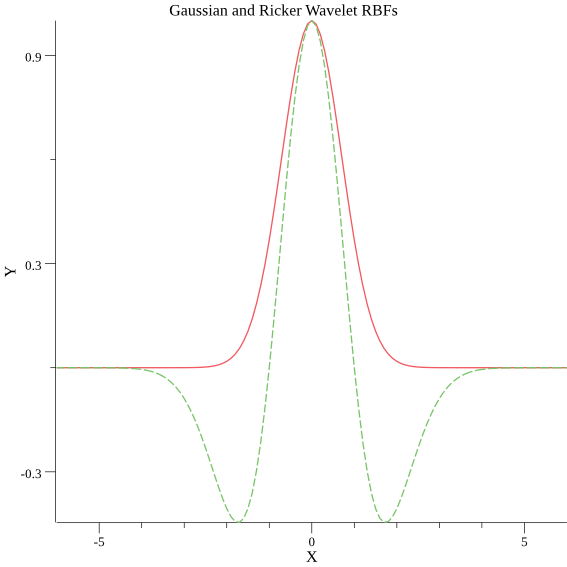
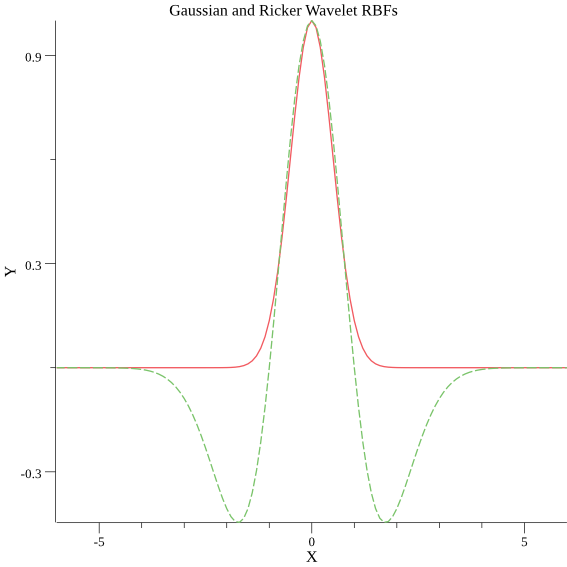
First commit of RBF network.

diff --git a/rbf/network.go b/rbf/network.go
@@ -1,23 +1,44 @@
 package rbf
 
 import (
+	"encoding/json"
 	"errors"
 	"fmt"
 
 	"github.com/a-h/ml/distance"
+	"github.com/a-h/ml/random"
 )
+
+// NewNeuron returns a new neuron.
+func NewNeuron(inputCount int, outputCount int) *Neuron {
+	return &Neuron{
+		InputWeights:  random.Float64Vector(-100, 100, inputCount),
+		Centroid:      random.Float64Vector(-100, 100, inputCount),
+		Distance:      distance.Euclidean,
+		Center:        random.Float64(-100, 100),
+		Width:         random.Float64(-100, 100),
+		OutputWeights: random.Float64Vector(-100, 100, outputCount),
+	}
+}
 
 // Neuron defines an RBF neuron in an RBF network.
 type Neuron struct {
-	InputWeights  []float64
-	Centroid      []float64
-	Distance      distance.Function
-	RBF           Function
+	InputWeights []float64
+	Centroid     []float64
+	Distance     distance.Function `json:"-"`
+	// RBF function parameters.
+	Center        float64
+	Width         float64
 	OutputWeights []float64
 }
 
+func (n Neuron) String() string {
+	b, _ := json.Marshal(n)
+	return string(b)
+}
+
 // Calculate the output of the neuron.
-func (n Neuron) Calculate(input []float64) (op []float64, err error) {
+func (n *Neuron) Calculate(input []float64) (op []float64, err error) {
 	if len(n.InputWeights) != len(input) {
 		err = fmt.Errorf("rbf: the input vector has a length of %d values and should have the same number of input weights, but we have %d neuron input weights",
 			len(input), len(n.InputWeights))
@@ -38,7 +59,7 @@ func (n Neuron) Calculate(input []float64) (op []float64, err error) {
 	}
 
 	// Scale the distance using the RBF function then multiply by the scalar output weights.
-	output := n.RBF(d)
+	output := NewGaussian(1.0, n.Width, n.Center)(d)
 	op = make([]float64, len(n.OutputWeights))
 	for i, outputWeight := range n.OutputWeights {
 		op[i] = output * outputWeight
@@ -47,8 +68,29 @@ func (n Neuron) Calculate(input []float64) (op []float64, err error) {
 }
 
 // OutputCount returns the number of output nodes.
-func (n Neuron) OutputCount() int {
+func (n *Neuron) OutputCount() int {
 	return len(n.OutputWeights)
+}
+
+func (n *Neuron) GetMemory() (op []float64) {
+	//TODO: Benchmark this approach and check that it's OK. I think it is given Go's slice internals.
+	op = append(op, n.InputWeights...)
+	op = append(op, n.Center)
+	op = append(op, n.Width)
+	op = append(op, n.OutputWeights...)
+	return
+}
+
+func (n *Neuron) SetMemory(m []float64) {
+	//TODO: Add error handling here, check the lengths etc. Lots of opportunities to panic here.
+	var index int
+	n.InputWeights = m[index:len(n.InputWeights)]
+	index = len(n.InputWeights)
+	n.Center = m[index]
+	index++
+	n.Width = m[index]
+	index++
+	n.OutputWeights = m[index:]
 }
 
 // NewBias creates a bias node with the specified number of outputs.
@@ -81,6 +123,12 @@ type Node interface {
 	OutputCount() int
 }
 
+// TrainableNode defines the behaviour of a node which can be trained.
+type TrainableNode interface {
+	GetMemory() []float64
+	SetMemory(m []float64)
+}
+
 // NewNetwork creates a new network from the input nodes, checking that the configuration
 // matches.
 func NewNetwork(neurons ...Node) (n Network, err error) {
@@ -101,6 +149,14 @@ func NewNetwork(neurons ...Node) (n Network, err error) {
 
 // Network defines the nodes in an RBF network.
 type Network []Node
+
+func (neurons Network) String() string {
+	b, err := json.Marshal(neurons)
+	if err != nil {
+		panic(err)
+	}
+	return string(b)
+}
 
 // Calculate the output of the network.
 func (neurons Network) Calculate(input []float64) (op []float64, err error) {

diff --git a/rbf/network_test.go b/rbf/network_test.go
@@ -1,0 +1,89 @@
+package rbf
+
+import (
+	"fmt"
+	"math"
+	"testing"
+
+	"github.com/a-h/ml/random"
+
+	"github.com/a-h/ml/distance"
+)
+
+func TestGaussian(t *testing.T) {
+	actual := NewGaussian(3.0, 2.0, 6.0)(2.0)
+	if actual != 3.0 {
+		t.Errorf("expected the peak of the curve to be at 2.0 and the value to be 3.0, but got %v", actual)
+	}
+}
+
+func TestNetwork(t *testing.T) {
+	ideal := []TrainingData{
+		{
+			Input:    []float64{0, 0},
+			Expected: []float64{0},
+		},
+		{
+			Input:    []float64{0, 1},
+			Expected: []float64{1},
+		},
+		{
+			Input:    []float64{1, 0},
+			Expected: []float64{1},
+		},
+		{
+			Input:    []float64{1, 1},
+			Expected: []float64{0},
+		},
+	}
+
+	network, err := NewNetwork(
+		NewNeuron(2, 1),
+		NewNeuron(2, 1),
+		NewNeuron(2, 1),
+		NewBias(1),
+	)
+	if err != nil {
+		t.Fatal("Error creating network:", err)
+	}
+
+	finalError := math.MaxFloat64
+	for i := 0; i < 1000000; i++ {
+		// Run all of the training data through the network and calculate how good it is.
+		var e float64
+		for _, td := range ideal {
+			// Execute the network against the training data.
+			actual, err := network.Calculate(td.Input)
+			if err != nil {
+				t.Fatal("Error calculating network output:", err)
+			}
+			// Calculate the distance away from the expected training result.
+			dist, err := distance.Euclidean(actual, td.Expected)
+			if err != nil {
+				t.Fatal("Error calculating distance:", err)
+			}
+			e += dist
+			//fmt.Printf("%d: %v -> %v expected: %v error: %v\n", i, td.Input, actual, td.Expected, dist)
+		}
+		// If the error we have is lower than the current error, then keep the new network values.
+		if e < finalError {
+			finalError = e
+			fmt.Println("Improvement. ", e)
+		} else {
+			// Try a different set of values.
+			for _, nd := range network {
+				if trainable, ok := nd.(TrainableNode); ok {
+					memory := trainable.GetMemory()
+					trainable.SetMemory(random.Float64Vector(-100, 100, len(memory)))
+				}
+			}
+		}
+	}
+	t.Error("Output error:", finalError)
+	fmt.Println(network)
+}
+
+type TrainingData struct {
+	Input    []float64
+	Expected []float64
+}

diff --git a/rbf/gaussian.go b/rbf/gaussian.go
@@ -1,10 +1,39 @@
 package rbf
 
 import (
+	"fmt"
 	"math"
 )
 
-// Gaussian radial basis function (RBF).
-func Gaussian(r float64) float64 {
-	return math.Pow(math.E, -(r * r))
+// NewGaussian creates a 1D Gaussian function with the following parameters.
+// a = height of the peak
+// b = center position
+// c = standard deviation
+func NewGaussian(a, b, c float64) Function {
+	return func(x float64) float64 {
+		numerator := (b - x) * (b - x)
+		denominator := 2.0 * (c * c)
+		return a * math.Pow(math.E, -(numerator/denominator))
+	}
+}
+
+// NewGaussianVector creates a Gaussian function with the following parameters.
+// a = height of the peak
+// b = center positions for each dimension
+// c = standard deviations for each dimension
+// See https://math.stackexchange.com/questions/112406/gaussian-formula-for-n-dimensions
+func NewGaussianVector(a float64, b []float64, c []float64) (f VectorFunction, err error) {
+	if len(b) != len(c) {
+		err = fmt.Errorf("gaussian: cannot create function with mismatched dimensions (%d and %d)", len(b), len(c))
+	}
+	f = func(v []float64) float64 {
+		var sum float64
+		for i, x := range v {
+			numerator := (b[i] - x) * (b[i] - x)
+			denominator := 2.0 * (c[i] * c[i])
+			sum += numerator / denominator
+		}
+		return a * math.Pow(math.E, -sum)
+	}
+	return
 }

diff --git a/random/random_test.go b/random/random_test.go
@@ -1,0 +1,30 @@
+package random
+
+import "testing"
+
+func TestFloat64(t *testing.T) {
+	tests := []struct {
+		min, max float64
+	}{
+		{
+			min: -1.0,
+			max: 1.0,
+		},
+		{
+			min: 5.0,
+			max: 10.0,
+		},
+		{
+			min: 0.0,
+			max: 1.0,
+		},
+	}
+
+	for _, test := range tests {
+		for _, output := range Float64Vector(test.min, test.max, 10000) {
+			if output > test.max || output < test.min {
+				t.Errorf("for min %f and max %f got %f which was outside expected range", test.min, test.max, output)
+			}
+		}
+	}
+}

diff --git a/rbf/example/main.go b/rbf/example/main.go
@@ -33,16 +33,19 @@ func main() {
 	p.Y.Padding = 0
 	p.Y.Label.Text = "Y"
 
+	g := rbf.NewGaussian(1.0, 0.0, 0.5)
+	rw := rbf.NewRickerWavelet(1.0, 0.0, 1.0)
+
 	var gaussian, rickerwavelet plotter.XYs
 	step := 0.1
 	for i := -6.0; i < 6.0; i += step {
 		gaussian = append(gaussian, xy{
 			X: float64(i),
-			Y: rbf.Gaussian(float64(i)),
+			Y: g(float64(i)),
 		})
 		rickerwavelet = append(rickerwavelet, xy{
 			X: float64(i),
-			Y: rbf.RickerWavelet(float64(i)),
+			Y: rw(float64(i)),
 		})
 	}
 

diff --git a/rbf/function.go b/rbf/function.go
@@ -1,6 +1,9 @@
 package rbf
 
 // Function is a radial basis function, for use in an RBF network.
-// Examples are rbf.Gaussian and rbf.RickerWavelet.
-//TODO: Update the function to accept a width parameter.
+// Examples are rbf.NewGaussian and rbf.RickerWavelet.
 type Function func(v float64) (r float64)
+
+// VectorFunction is a radial basis function which operates on a vector.
+// Examples are rbf.NewGaussianVector.
+type VectorFunction func(v []float64) (r float64)

diff --git a/rbf/rickerwavelet.go b/rbf/rickerwavelet.go
@@ -4,7 +4,11 @@ import (
 	"math"
 )
 
-// RickerWavelet radial basis function (RBF).
-func RickerWavelet(r float64) float64 {
-	return (1.0 - (r * r)) * math.Pow(math.E, (-(r*r)/2))
+// NewRickerWavelet radial basis function (RBF).
+func NewRickerWavelet(a, b, c float64) Function {
+	return func(x float64) float64 {
+		numerator := (b - x) * (b - x)
+		denominator := 2.0 * (c * c)
+		return (a - (x * x)) * math.Pow(math.E, -(numerator/denominator))
+	}
 }

diff --git a/random/random.go b/random/random.go
@@ -1,0 +1,22 @@
+package random
+
+import (
+	"math/rand"
+	"time"
+)
+
+func init() {
+	rand.Seed(time.Now().Unix())
+}
+
+func Float64(min, max float64) float64 {
+	return (max-min)*rand.Float64() + min
+}
+
+func Float64Vector(min, max float64, size int) []float64 {
+	op := make([]float64, size)
+	for i := 0; i < size; i++ {
+		op[i] = Float64(min, max)
+	}
+	return op
+}
